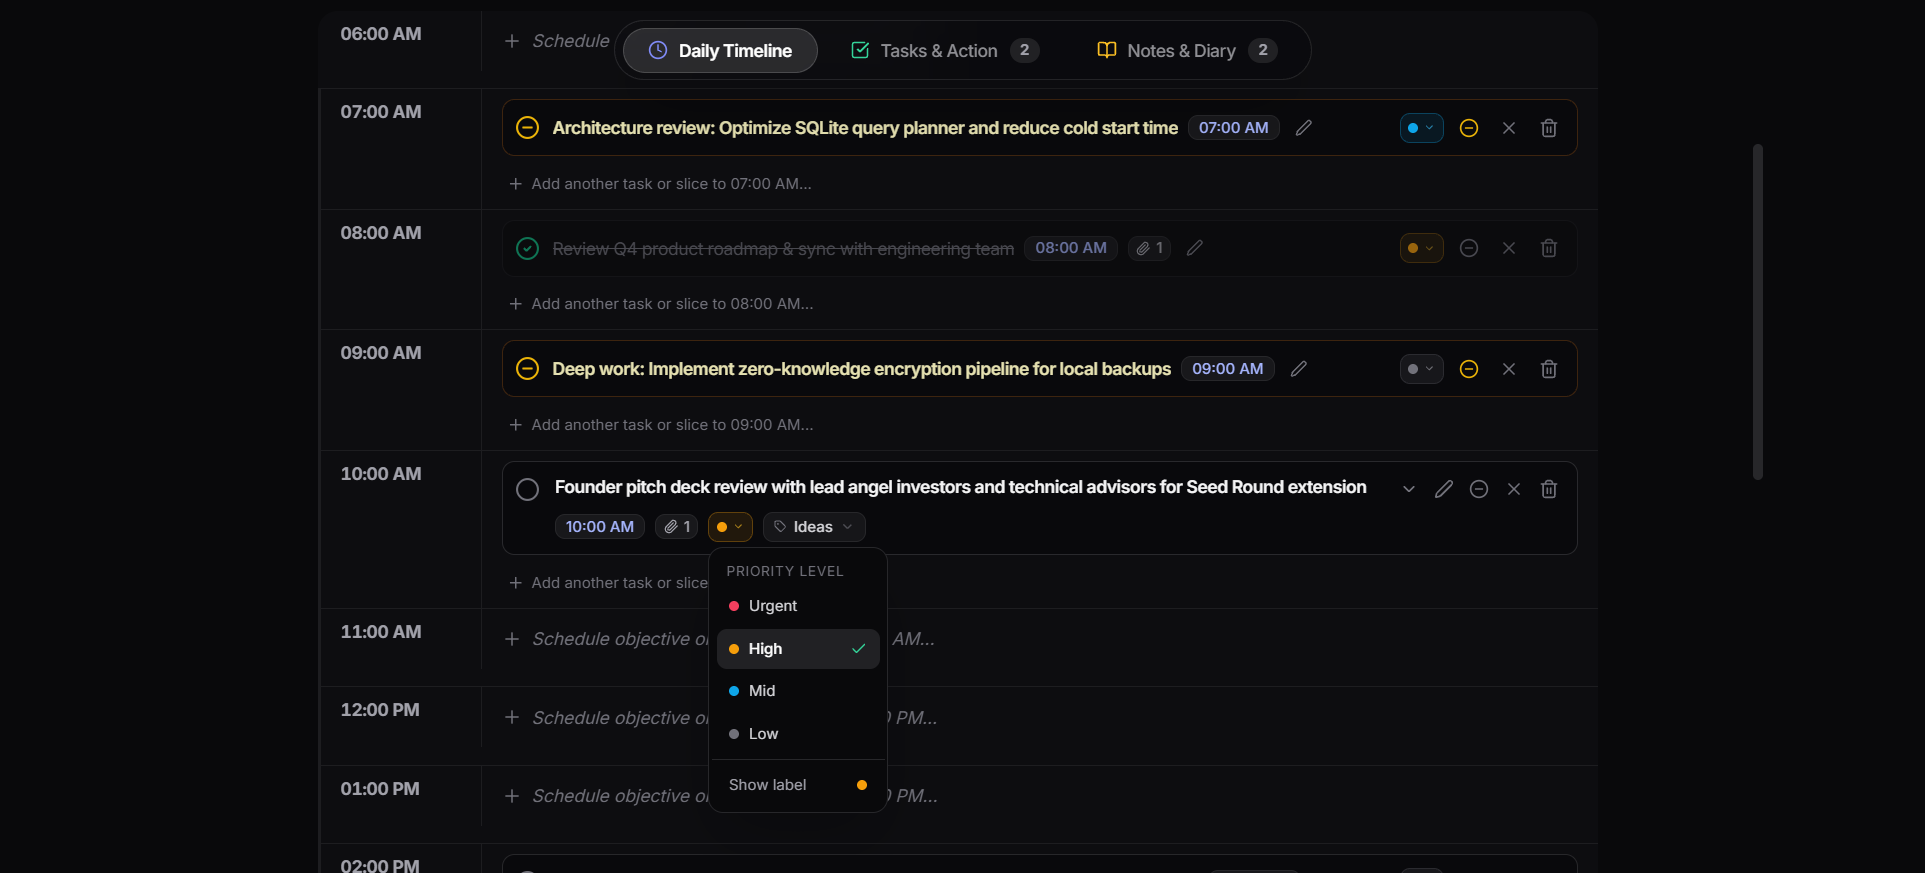
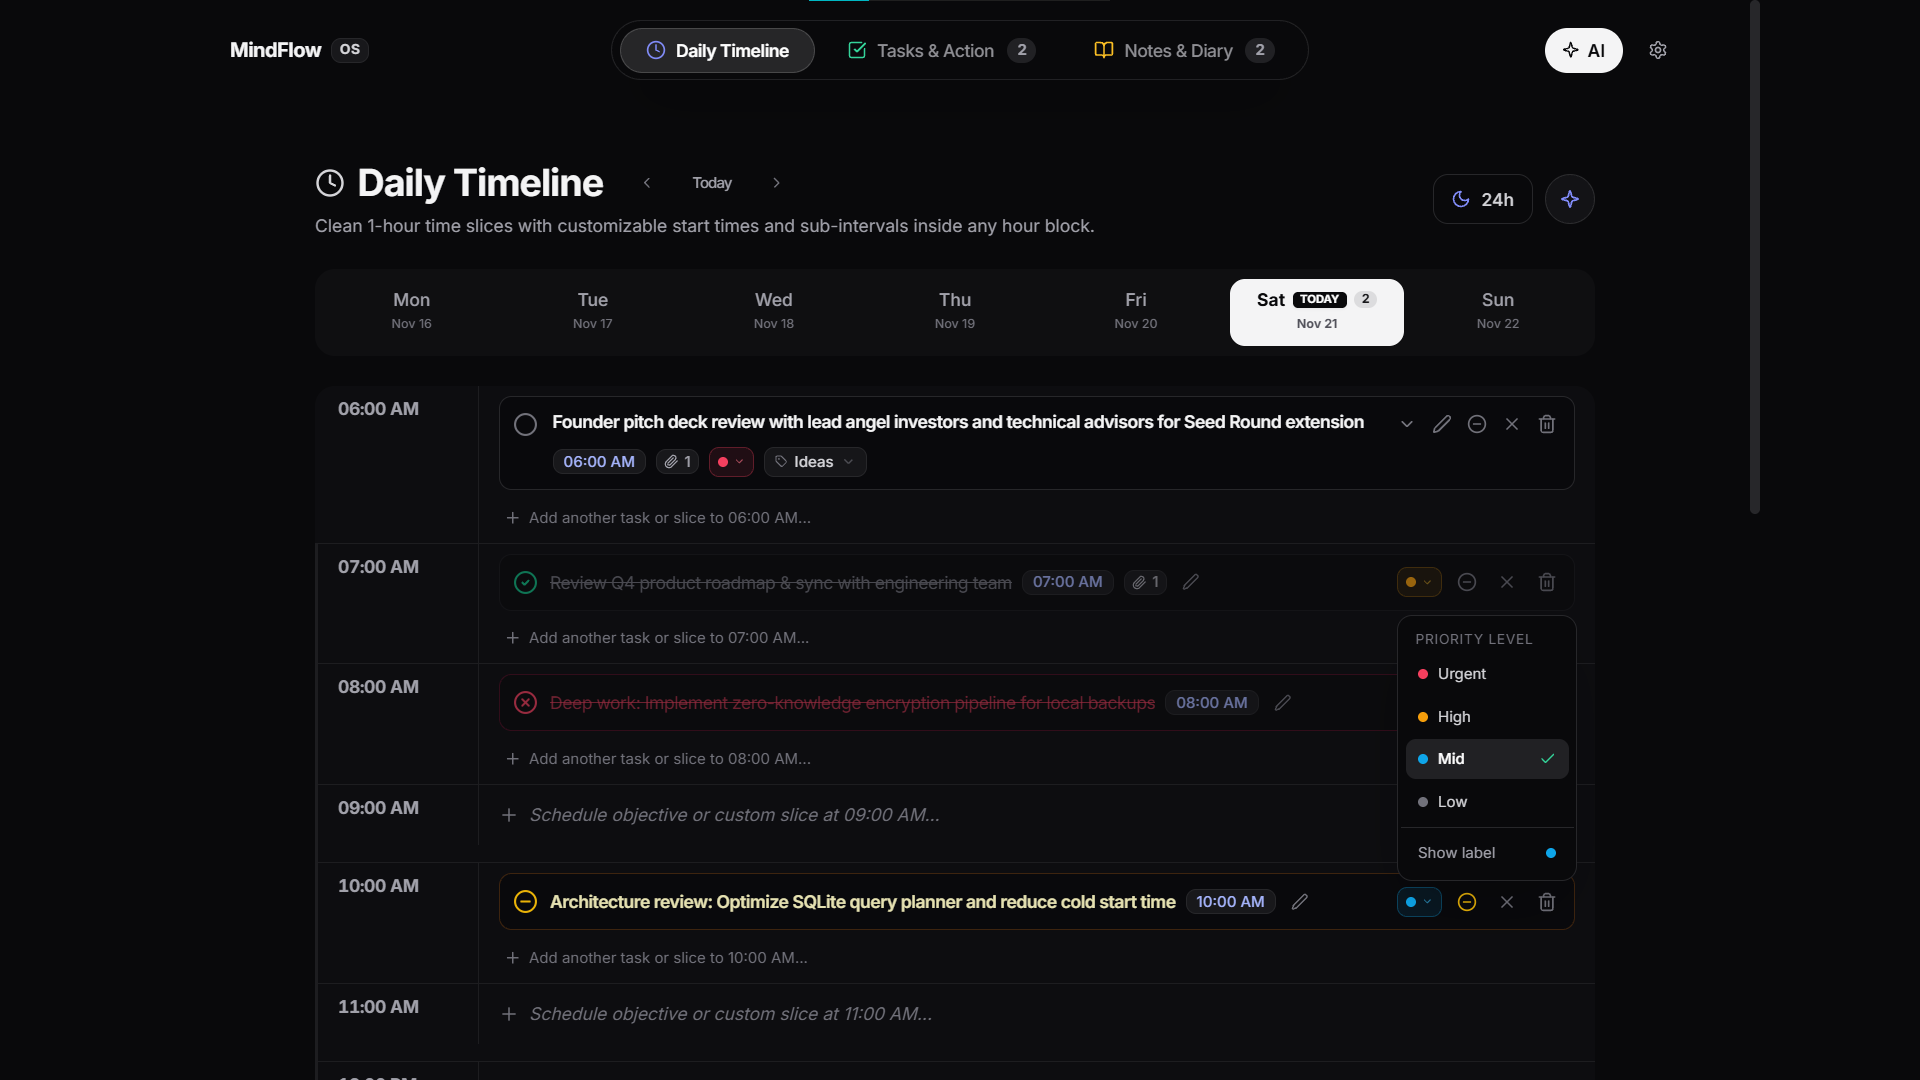
docs: use daily_main.png for timeline and update release 1.1.3 download links

diff --git a/README.md b/README.md
@@ -11,9 +11,9 @@
 
 You can download the standalone desktop application for your operating system below. These installers bundle everything you need—no coding knowledge required!
 
-- [**Download for Windows (.exe)**](https://github.com/ThunderD9/mindflow/releases/latest/download/Mindflow-Setup-1.1.1.exe)
-- [**Download for macOS (.dmg)**](https://github.com/ThunderD9/mindflow/releases/latest/download/Mindflow-1.1.1-arm64.dmg)
-- [**Download for Linux (.AppImage)**](https://github.com/ThunderD9/mindflow/releases/latest/download/Mindflow-1.1.1.AppImage)
+- [**Download for Windows (.exe)**](https://github.com/ThunderD9/mindflow/releases/latest/download/Mindflow-Setup-1.1.3.exe)
+- [**Download for macOS (.dmg)**](https://github.com/ThunderD9/mindflow/releases/latest/download/Mindflow-1.1.3-arm64.dmg)
+- [**Download for Linux (.AppImage)**](https://github.com/ThunderD9/mindflow/releases/latest/download/Mindflow-1.1.3.AppImage)
 
 Alternatively, you can [**view the Releases page**](https://github.com/ThunderD9/mindflow/releases) to see all available versions, or download the raw source code (`.zip` and `.tar.gz`).
 
@@ -28,7 +28,7 @@ Alternatively, you can [**view the Releases page**](https://github.com/ThunderD9
 
 ### 1. Daily Time-Blocking Timeline
 Clean 1-hour time slices with customizable start times and sub-intervals inside any hour block.
-![Daily Timeline](./timeline.png)
+![Daily Timeline](./daily_main.png)
 
 ### 2. Tasks & Action
 Organized high-leverage action items with full priority, single-line dot badges, and weekday sorting.
